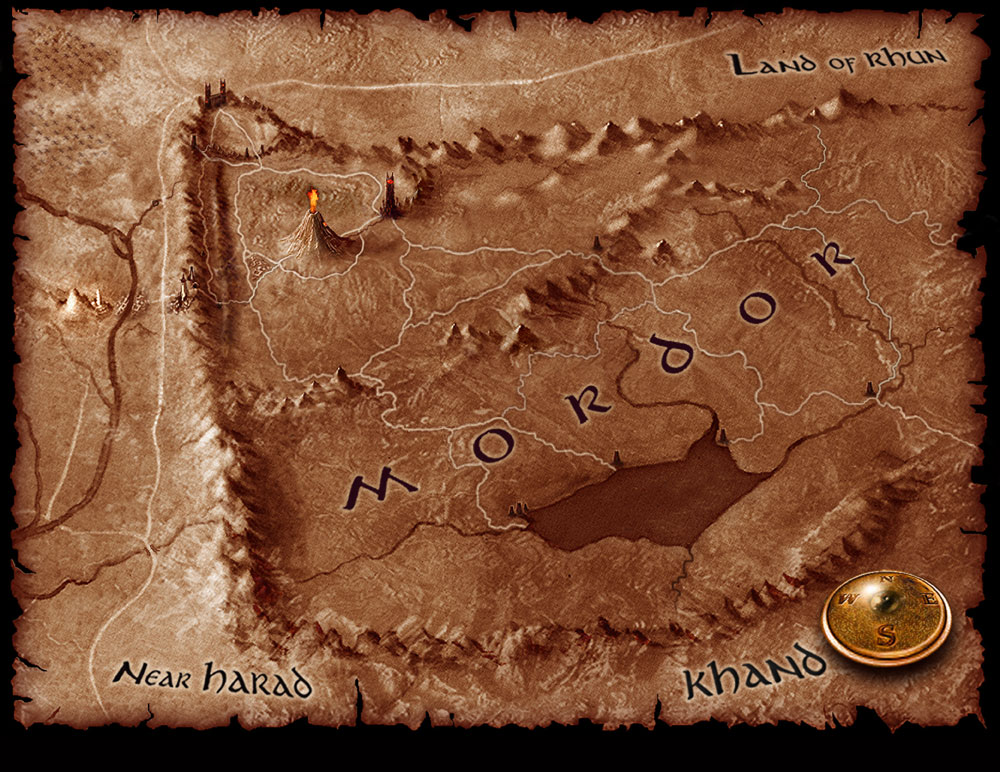
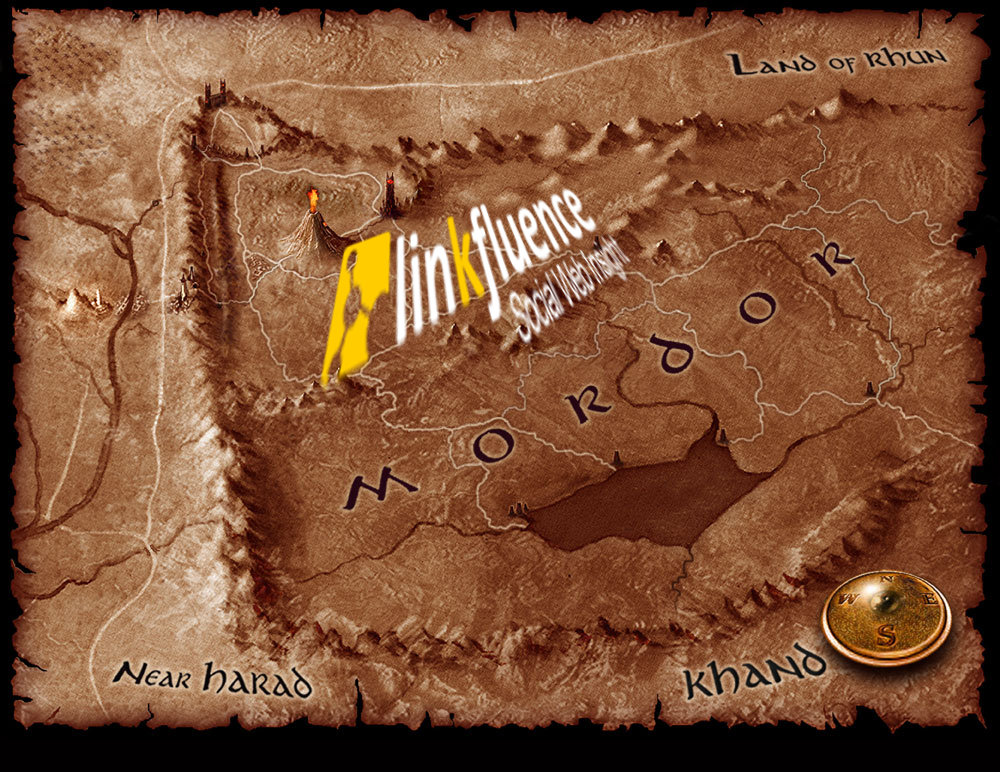
mordor picture and update the who slide

Changed region(s): [[0.31, 0.2487, 0.651, 0.4974]]

diff --git a/rest_in_spore.html b/rest_in_spore.html
@@ -105,10 +105,9 @@
                                 </section>
                                 <section>
                                     <h2>Qui ?</h2>
-                                    <p class="fragment">Linkfluence -
+                                    <p>Linkfluence -
                                     http://fr.linkfluence.net</p>
-                                    <img class="fragment" src="img/mordor.jpg"
-                                    width="650" height="500">
+                                    <img src="img/mordor.jpg" width="650" height="500">
                                 </section>
                                 <section>
                                     <h3>Une petite communauté qui grandit vite</h3>
